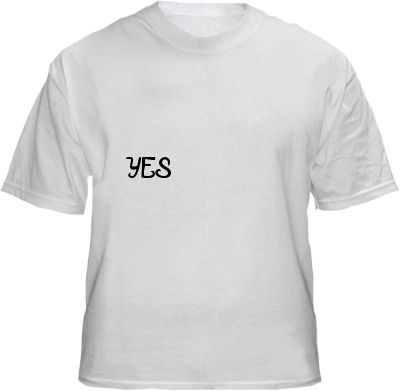
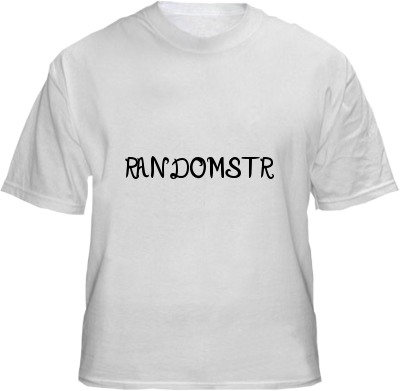
fix

Changed region(s): [[0.3, 0.399, 0.69, 0.4604]]

diff --git a/SMSApp/views.py b/SMSApp/views.py
@@ -14,16 +14,22 @@ connect('heroku_app17085708', host= constants.DB_URL)
 @twilio_view
 def reply_to_sms_messages(request):
     
-    requestQueryDict = request.POST.copy()
+    #requestQueryDict = request.POST.copy()
 
     try:
-        incomingPhoneNumber = requestQueryDict['From'].replace('%2B', '')
-        incomingText = requestQueryDict['Body']
+        #incomingPhoneNumber = requestQueryDict['From'].replace('%2B', '')
+        #incomingText = requestQueryDict['Body']
+
+        incomingPhoneNumber = '+905316326123'
+        incomingText = 'RANDOMSTR'
 
         print 'incomingPhoneNumber: ' + incomingPhoneNumber
-        print 'incomingText: ' + requestQueryDict['Body']
+        #print 'incomingText: ' + requestQueryDict['Body']
 
+        
         orders = models.ShirtRequest.objects(phoneNumber=incomingPhoneNumber)
+
+        artWorkURL = orders.first()['shirtPicturePath']
 
         if orders.count() > 0:
             if incomingText in constants.YES_NO_ARRAY:
@@ -33,7 +39,7 @@ def reply_to_sms_messages(request):
                 if incomingText in constants.YES_ARRAY:
                     #msg = constants.SUCCESS_MESSAGE
                     print 'Going to make the request'
-                    requestMapping = helper.returnOrderMappings()
+                    requestMapping = helper.returnOrderMappings(artWorkURL)
                     print type(requestMapping)
                     getResponse = helper.makeRequest('POST', 'https://www.shirts.io/api/v1/order/', 
                         requestMapping)
@@ -47,17 +53,19 @@ def reply_to_sms_messages(request):
             print 'In here'
             picturePath = helper.generateShirtImage(incomingPhoneNumber, 
                                                     incomingText)
-            print 'picturePath: ' + picturePath
+
+            pictureLink = constants.APPLICATION_IMAGE_LINK + incomingPhoneNumber + ".png"
             newOrder = models.ShirtRequest(phoneNumber = incomingPhoneNumber)
             newOrder.shirtMessage = incomingText
-            newOrder.shirtPicturePath = picturePath
+            newOrder.shirtPicturePath = pictureLink
             newOrder.save()
+
             print 'all saved'
-            msg = helper.generateVerification(constants.APPLICATION_IMAGE_LINK + 
-                incomingPhoneNumber + ".png")
+            msg = helper.generateVerification(pictureLink)
             print 'myFinalMessage: ' + msg
     except Exception as e:
-        msg = constants.ERROR_MESSAGE_SERVER
+        msg = constants.ERROR_MESSAGE_SERVER 
+        msg = msg + 'Exception Type: ' + type(e).__name__
 
     r = Response()
     r.sms(msg)

diff --git a/SMSApp/helper.py b/SMSApp/helper.py
@@ -1,5 +1,6 @@
 import requests
 import PIL
+import time
 
 from PIL import ImageFont
 from PIL import Image
@@ -40,14 +41,14 @@ def makeRequest(method, url, mapping):
 	print 'REQ: ' + req.text
 	return req
 
-def returnOrderMappings():
+def returnOrderMappings(artwork):
 	mapping = {'api_key': '63aae231cdab277428c0c4e73ee2e9f3ccbe6c42',
 		       'test':'True', 'design':'True', 'price':'18.41', 
 		       'garment[0][product_id]': '3',
 		       'garment[0][color]':'White',
 		       'garment[0][sizes][lrg]': '1',
 		       'print[front][color_count]':'1',
-		       'print[front][artwork]':'http://i488.photobucket.com/albums/rr249/STACIA_GIRL_2009/ANIMALES/koala.png',
+		       'print[front][artwork]':artwork,
 		       'print[front][proof]':'http://www.stanford.edu/~jay/koalas/Koala450j.jpg',
 		       'addresses[0][name]':'John Doe',
 		       'addresses[0][address]':'123 Hope Ln.',
@@ -60,10 +61,9 @@ def returnText(obj):
 	try:
 		jsonObject = obj['result']
 		msg = 'Order ID: ' + jsonObject['order_id']
-		msg = msg + '\nDelivery Date: '+ str(jsonObject['delivery_date'])
+		#msg = msg + '\nDelivery Date: '+ str(jsonObject['delivery_date'])
+		msg = msg + '\nDelivery Date: ' + time.strftime('%Y-%m-%d %H:%M:%S', time.localtime(jsonObject['delivery_date']))
 		msg = msg + '\nNotes:'
-		#for w in jsonObject['warnings']:
-			#msg = msg + '\n' + w
 		lastNoteIndex = len(jsonObject['warnings']) - 1
 		msg += jsonObject['warnings'][lastNoteIndex]
 	except:
